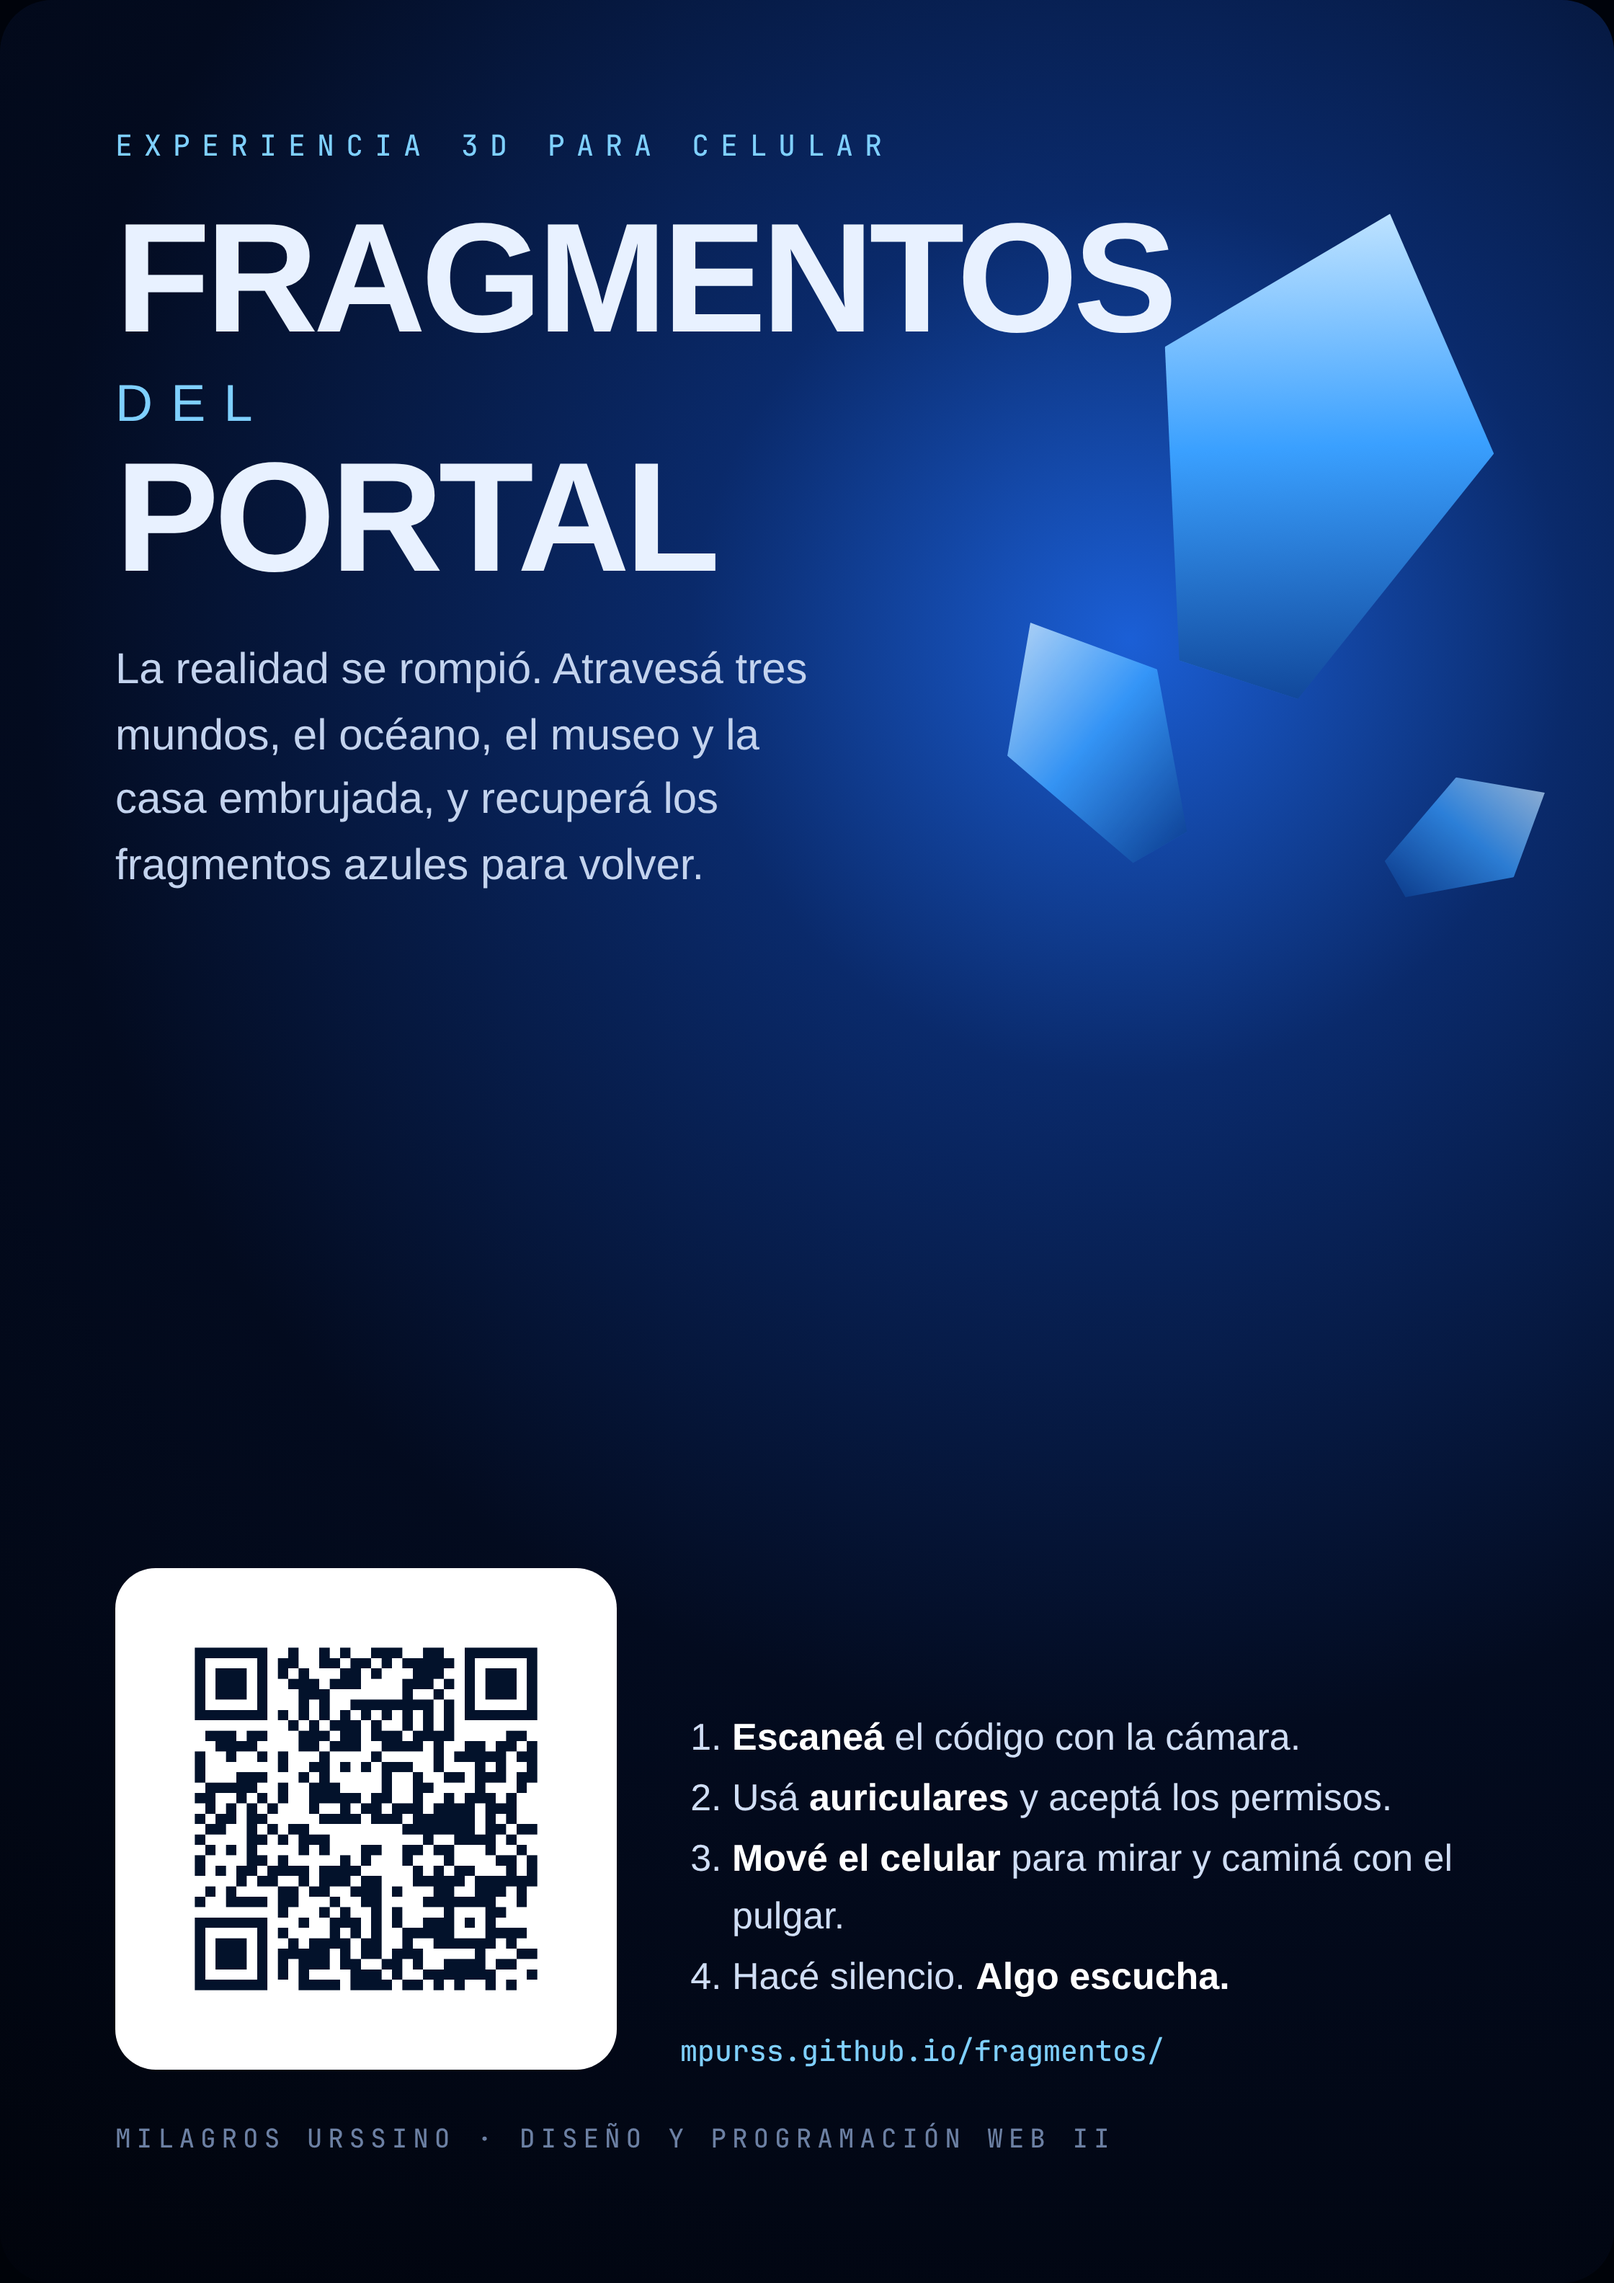
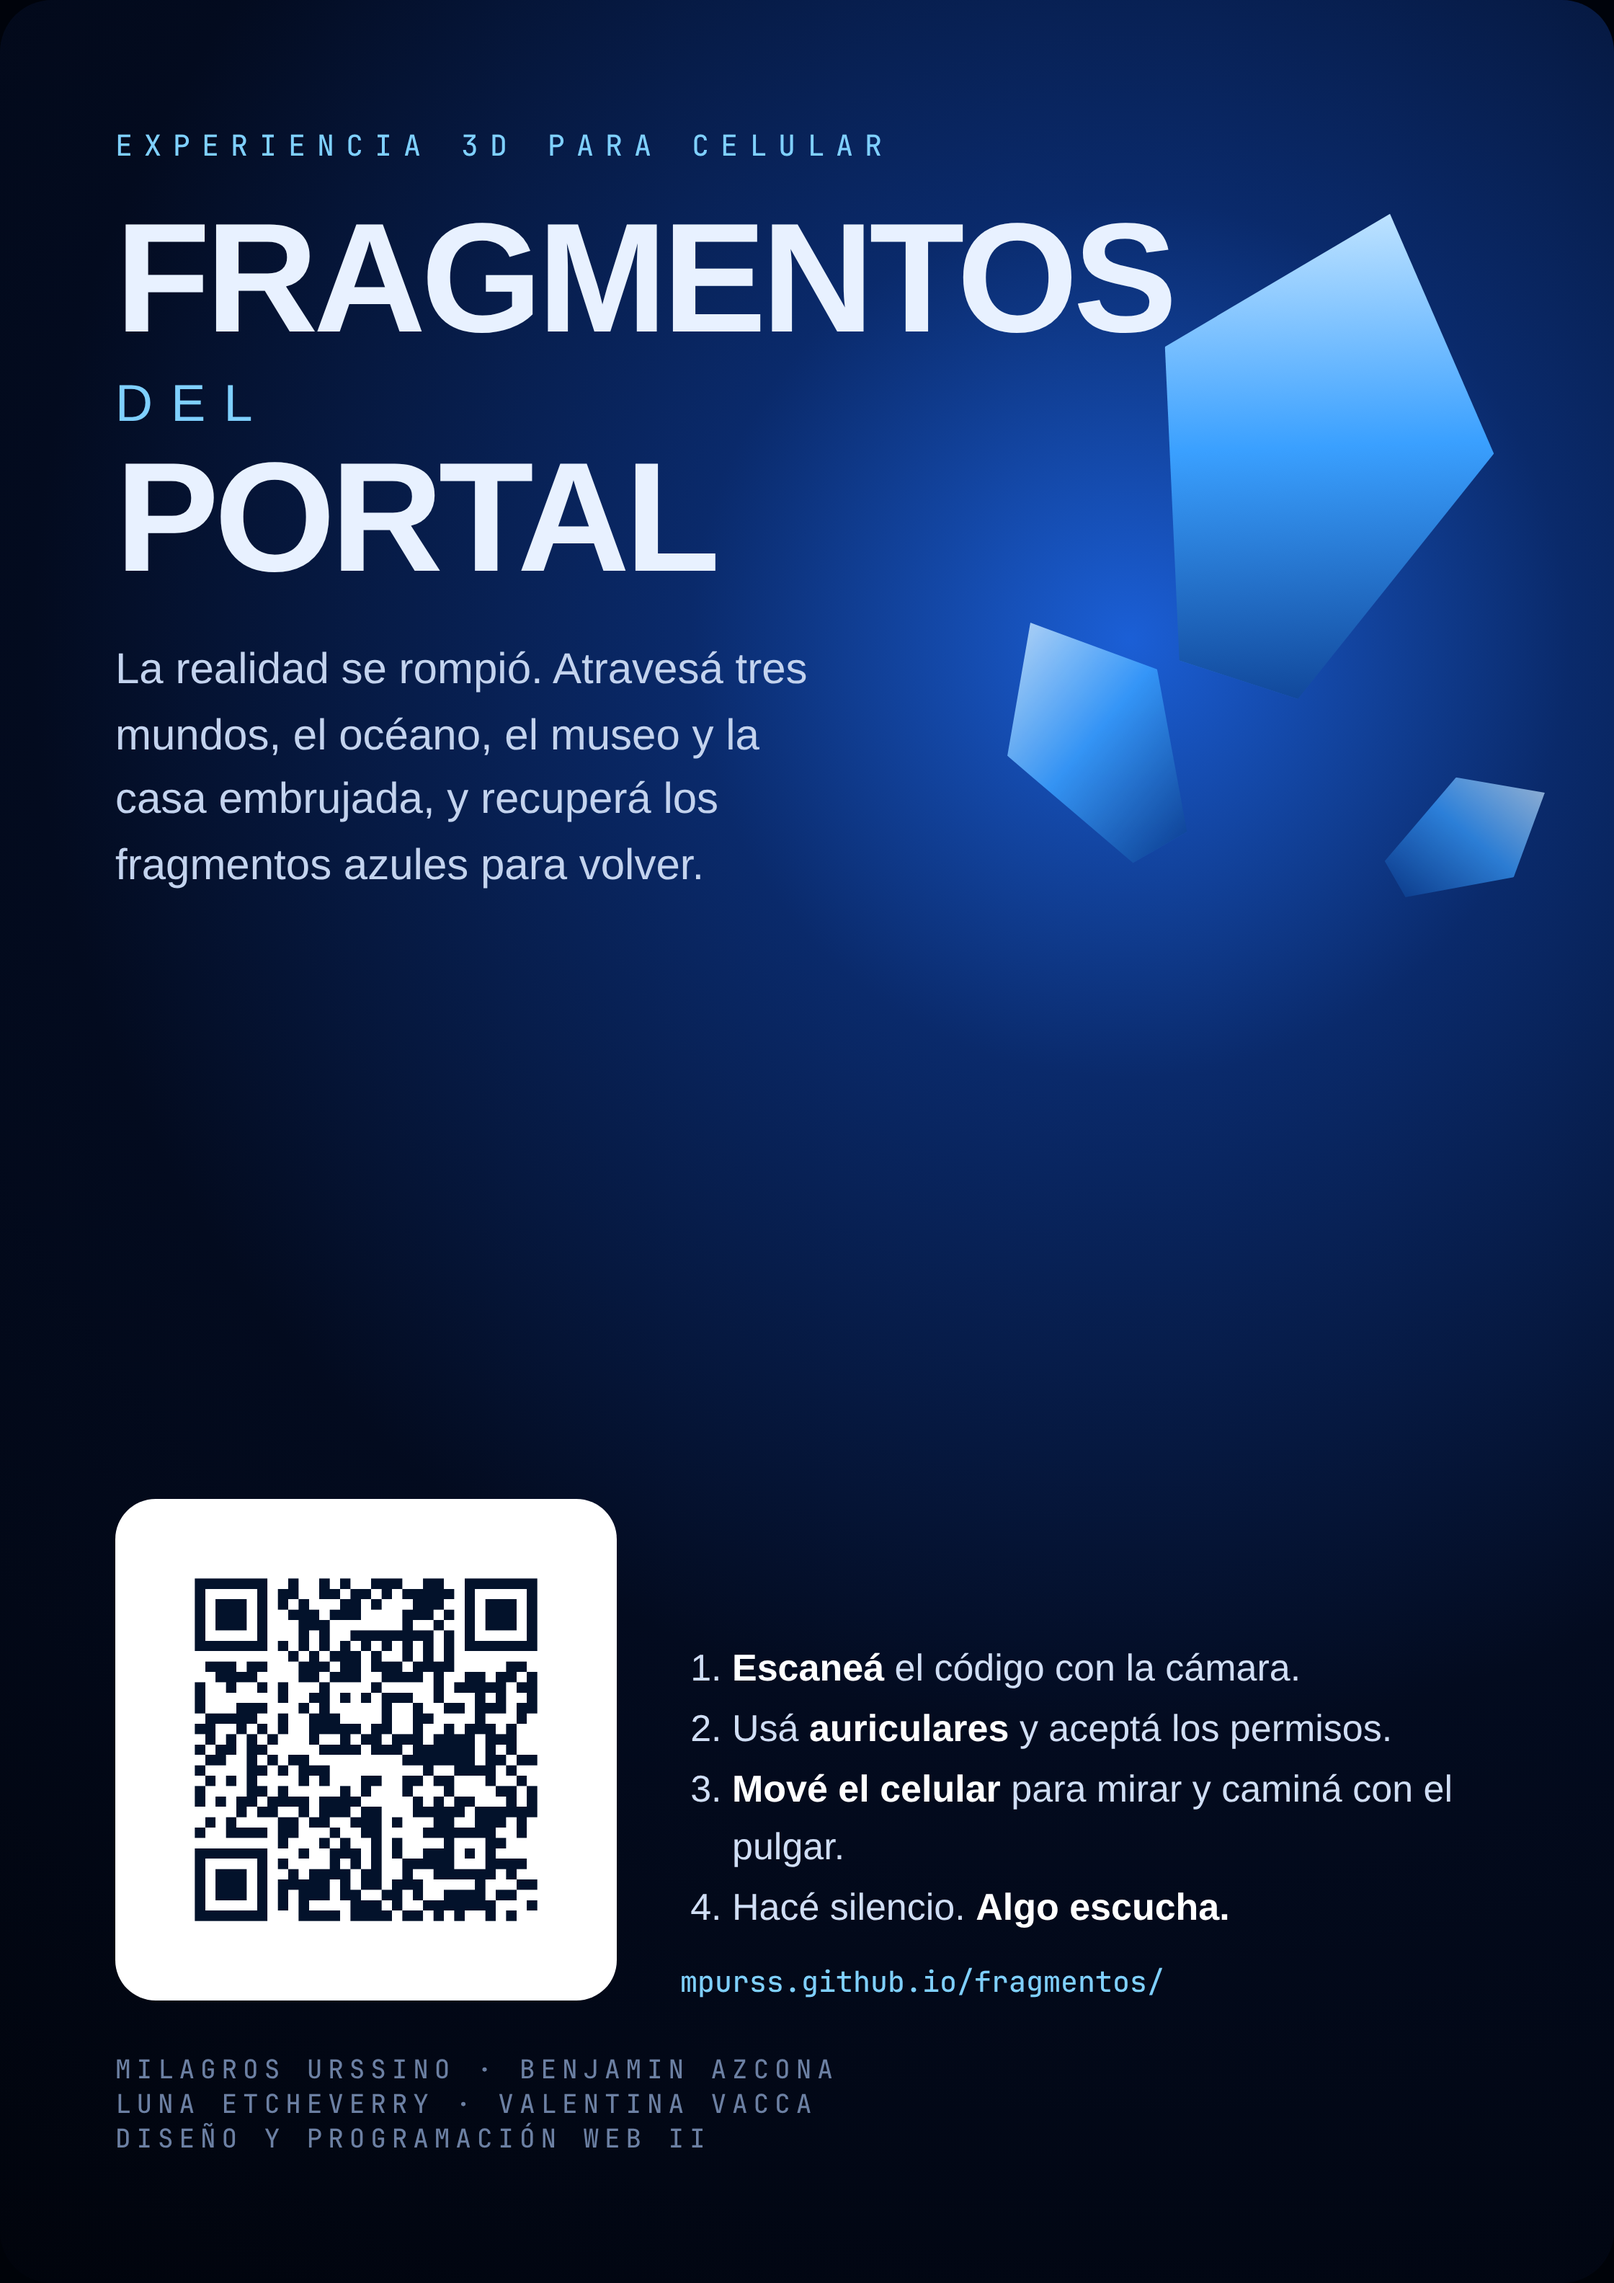
Créditos del equipo en el título, el afiche y el README
Claude-Session: https://claude.ai/code/session_01QE3LzEbYRyqVhk3nAGWGW9

Changed region(s): [[0.0625, 0.6562, 0.875, 0.9375]]

diff --git a/index.html b/index.html
@@ -68,7 +68,7 @@
   .t-hint{display:flex; gap:16px; flex-wrap:wrap; font-size:12px; color:var(--muted)}
   .t-hint span{display:flex; align-items:center; gap:6px}
   .t-hint svg{width:15px; height:15px; stroke:var(--blue-2)}
-  .t-credit{font:500 9px 'JetBrains Mono',monospace; letter-spacing:.24em; color:#5b6f91; text-transform:uppercase}
+  .t-credit{font:500 9px 'JetBrains Mono',monospace; line-height:1.7; letter-spacing:.24em; color:#5b6f91; text-transform:uppercase}
 
   /* ---------- PERMISOS ---------- */
   #perm{position:fixed; inset:0; z-index:45; display:none; align-items:center; justify-content:center; padding:24px; background:#030712d9; backdrop-filter:blur(10px)}
@@ -160,7 +160,7 @@
       <span><svg viewBox="0 0 24 24" fill="none" stroke-width="2" stroke-linecap="round"><rect x="7" y="2" width="10" height="20" rx="2"/><path d="M11 18h2"/></svg>Mové el celu para mirar</span>
       <span><svg viewBox="0 0 24 24" fill="none" stroke-width="2" stroke-linecap="round"><path d="M3 14v-2a9 9 0 0 1 18 0v2"/><rect x="2" y="14" width="5" height="7" rx="2"/><rect x="17" y="14" width="5" height="7" rx="2"/></svg>Con auriculares</span>
     </div>
-    <div class="t-credit">Milagros Urssino · Diseño y Programación Web II</div>
+    <div class="t-credit">Milagros Urssino · Benjamin Azcona<br>Luna Etcheverry · Valentina Vacca<br>Diseño y Programación Web II</div>
   </div>
 </section>
 

diff --git a/src/00_head.html b/src/00_head.html
@@ -68,7 +68,7 @@
   .t-hint{display:flex; gap:16px; flex-wrap:wrap; font-size:12px; color:var(--muted)}
   .t-hint span{display:flex; align-items:center; gap:6px}
   .t-hint svg{width:15px; height:15px; stroke:var(--blue-2)}
-  .t-credit{font:500 9px 'JetBrains Mono',monospace; letter-spacing:.24em; color:#5b6f91; text-transform:uppercase}
+  .t-credit{font:500 9px 'JetBrains Mono',monospace; line-height:1.7; letter-spacing:.24em; color:#5b6f91; text-transform:uppercase}
 
   /* ---------- PERMISOS ---------- */
   #perm{position:fixed; inset:0; z-index:45; display:none; align-items:center; justify-content:center; padding:24px; background:#030712d9; backdrop-filter:blur(10px)}
@@ -160,7 +160,7 @@
       <span><svg viewBox="0 0 24 24" fill="none" stroke-width="2" stroke-linecap="round"><rect x="7" y="2" width="10" height="20" rx="2"/><path d="M11 18h2"/></svg>Mové el celu para mirar</span>
       <span><svg viewBox="0 0 24 24" fill="none" stroke-width="2" stroke-linecap="round"><path d="M3 14v-2a9 9 0 0 1 18 0v2"/><rect x="2" y="14" width="5" height="7" rx="2"/><rect x="17" y="14" width="5" height="7" rx="2"/></svg>Con auriculares</span>
     </div>
-    <div class="t-credit">Milagros Urssino · Diseño y Programación Web II</div>
+    <div class="t-credit">Milagros Urssino · Benjamin Azcona<br>Luna Etcheverry · Valentina Vacca<br>Diseño y Programación Web II</div>
   </div>
 </section>
 

diff --git a/poster.html b/poster.html
@@ -47,7 +47,7 @@
       <div class="url" id="url"></div>
     </div>
   </div>
-  <div class="foot">Milagros Urssino · Diseño y Programación Web II</div>
+  <div class="foot">Milagros Urssino · Benjamin Azcona<br>Luna Etcheverry · Valentina Vacca<br>Diseño y Programación Web II</div>
 </div>
 <script>
   // El QR apunta al index.html publicado en la misma carpeta que este afiche.

diff --git a/README.md b/README.md
@@ -1,7 +1,9 @@
 # Fragmentos del Portal
 
 Experiencia web 3D inmersiva para celular, hecha con **Three.js** y los sensores del teléfono.
-Diseño y Programación Web II · Parcial 2 · Milagros Urssino
+Diseño y Programación Web II · Parcial 2
+
+**Equipo:** Milagros Urssino, Benjamin Azcona, Luna Etcheverry y Valentina Vacca
 
 ## Concepto
 Una grieta se abre en tu realidad. Para volver tenés que atravesar tres mundos conectados por portales y recuperar en cada uno un **fragmento azul**. Al final los tres fragmentos se fusionan, se abre el portal de regreso y volvés a tu realidad… aunque algo cruza con vos.
